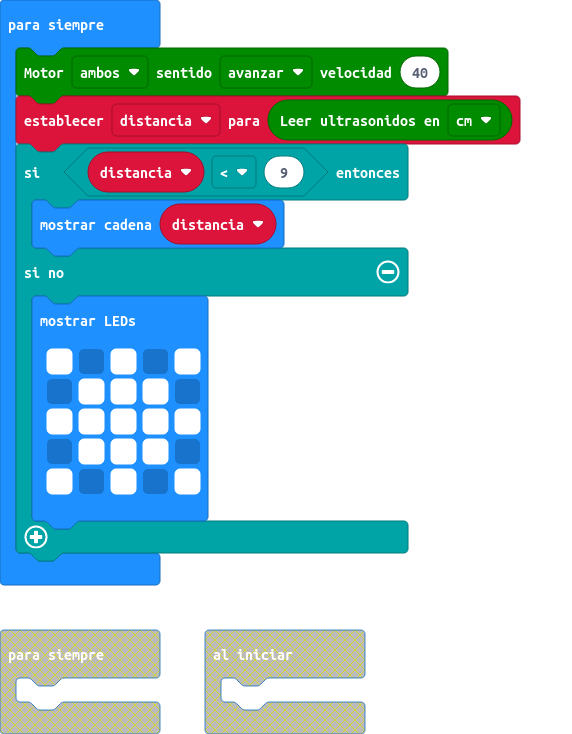
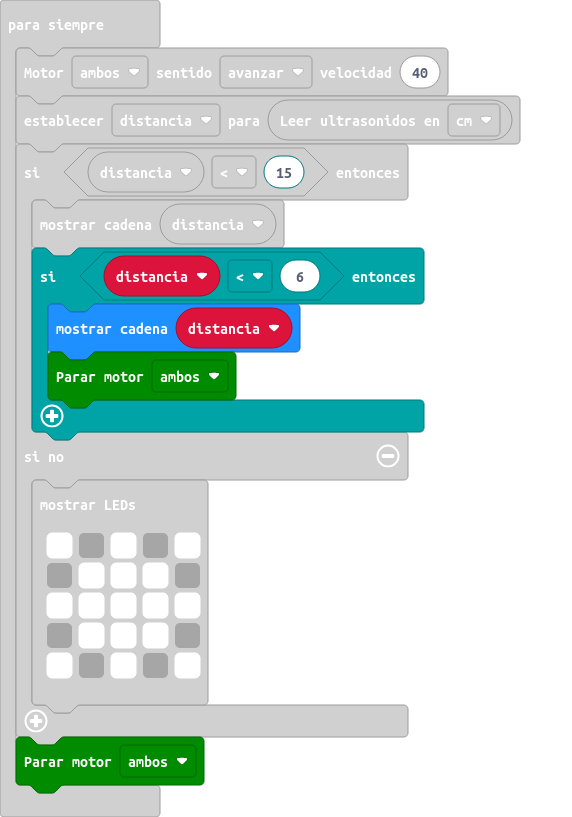
Actualizar main.blocks, main.ts

diff --git a/main.ts b/main.ts
@@ -2,8 +2,12 @@ let distancia = 0
 basic.forever(function () {
     maqueen.motorRun(maqueen.Motors.All, maqueen.Dir.CW, 40)
     distancia = maqueen.Ultrasonic(PingUnit.Centimeters)
-    if (distancia < 9) {
+    if (distancia < 15) {
         basic.showString("" + (distancia))
+        if (distancia < 6) {
+            basic.showString("" + (distancia))
+            maqueen.motorStop(maqueen.Motors.All)
+        }
     } else {
         basic.showLeds(`
             # . # . #
@@ -13,4 +17,5 @@ basic.forever(function () {
             # . # . #
             `)
     }
+    maqueen.motorStop(maqueen.Motors.All)
 })
